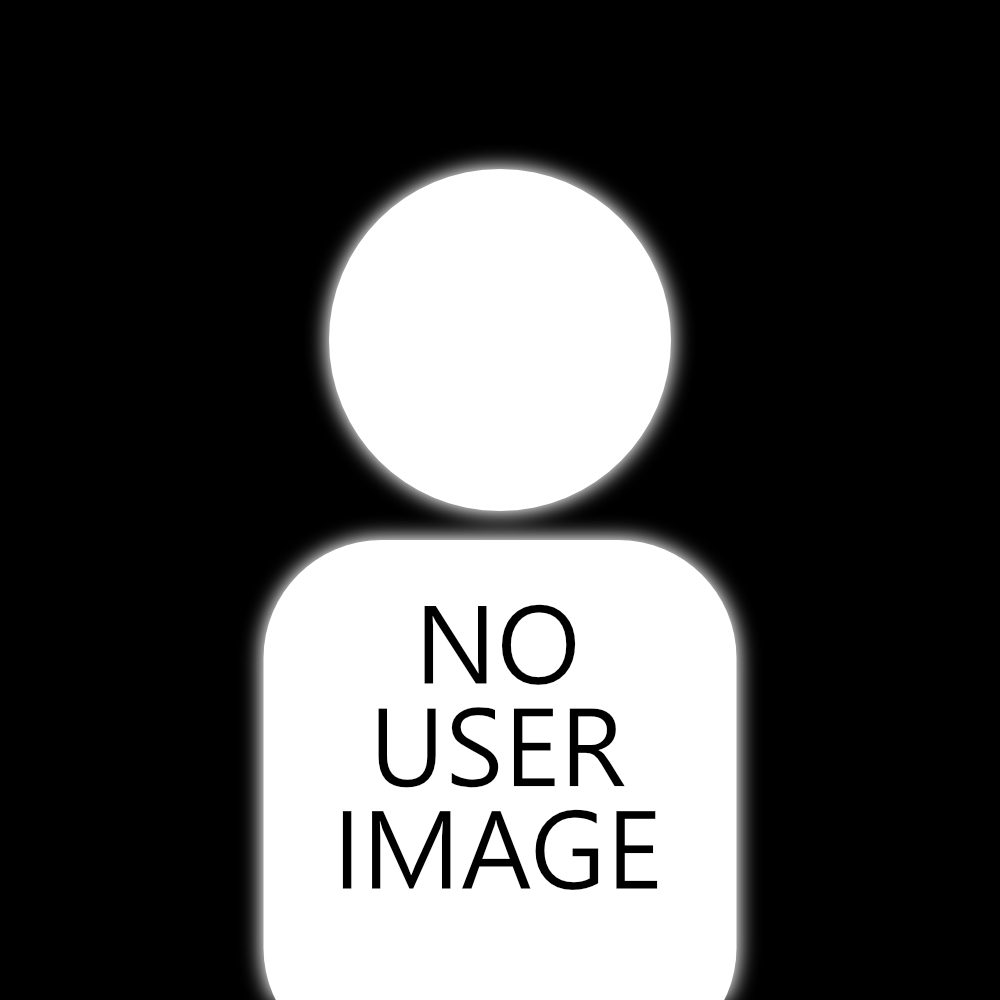
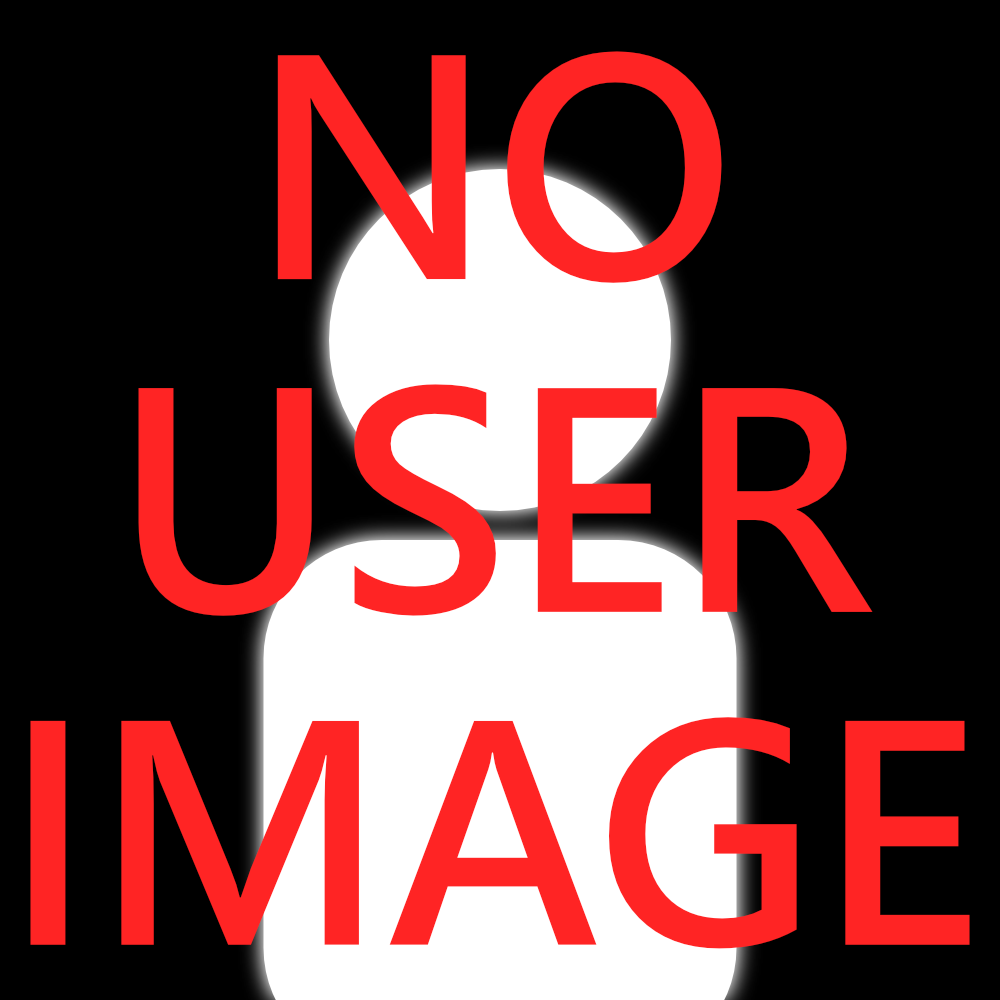
users without images works. fixed some issues editing posts with images in them.

diff --git a/templates/user.html b/templates/user.html
@@ -24,22 +24,6 @@
     }
     return;
   }
-
-  function checkUserImageExists() {
-    // Guleria A., 27/03/2021, Detect 404 error on page load [Source Code] https://stackoverflow.com/questions/26630650/detect-404-error-on-page-load
-    var baseURL = "https://storage.cloud.google.com/cc-assignment1-berke.appspot.com/users/";
-    var userID = "{{ user.key.name }}.png";
-    var url = baseURL.concat(userID);
-    console.log(url);
-    var http = new XMLHttpRequest();
-    var userImgTag = document.getElementById("userimg");
-    http.open('HEAD', url, false);
-    http.send();
-    if (http.status != 404){
-      userImgTag.src = "/static/default.png";
-    }
-  }
-
   function subjectEmptyWarning() {
         subject = document.getElementById('editsubjectinput')
         if (subject.value == "") {
@@ -54,7 +38,13 @@
     <div class="col-sm-2">
         <h3>User Details</h3>
         <ul class="list-group">
-            <li class="list-group-item"><img onload="checkUserImageExists();" id="userimg" src="https://storage.cloud.google.com/cc-assignment1-berke.appspot.com/users/{{ user.key.name }}.png" style="width: 120px;;height: 120px;"></li>
+            <li class="list-group-item">
+            {% if user['hasimage'] == true %}
+              <img id="userimg" src="https://storage.cloud.google.com/cc-assignment1-berke.appspot.com/users/{{ user.key.name }}.png" style="width: 120px;;height: 120px;">
+            {% else %}
+              <img id="userimg" src="/static/default.png" style="width: 120px;;height: 120px;">
+            {% endif %}
+            </li>
             <li class="list-group-item "><strong>User ID:</strong> {{ user.key.name }}</li>
             <li class="list-group-item"><strong>Username:</strong> {{ user['user_name'] }}</li>
         </ul>
@@ -107,7 +97,7 @@
               {% if post['hasimage'] == true %}
                 <div class="form-group" id="imageselectgroup">
                   <label for="picture">Update Post Image:</label>
-                  <input type="file" class="form-control" name="postimage" id="postimage{{ post_index }}">
+                  <input type="file" class="form-control" name="postimage" id="postimage">
                 </div>
               {% endif %}
               <input type="submit" class="btn btn-primary" value="Update">

diff --git a/templates/base.html b/templates/base.html
@@ -18,7 +18,15 @@
             <li class="nav-item"><a class="nav-link"href="{{ url_for('register') }}"><i class="fas fa-user-plus"></i> Register</a></li>
             <li class="nav-item"><a class="nav-link" href="{{ url_for('login') }}"><i class="fas fa-sign-in-alt"></i> Login</a></li>
           {% else %}
-            <a href="/user/{{ g.current_user.key.name }}"><img  src="https://storage.cloud.google.com/cc-assignment1-berke.appspot.com/users/{{ g.current_user.key.name }}.png" style="width: 40px;;height: 40px;"></a>
+            <a href="/user/{{ g.current_user.key.name }}">
+            {% if g.current_user['hasimage'] == true %}
+              <img id="userimg" src="https://storage.cloud.google.com/cc-assignment1-berke.appspot.com/users/{{ g.current_user.key.name }}.png" style="width: 40px;;height: 40px;">
+            {% else %}
+              <img id="userimg" src="/static/default.png" style="width: 40px;;height: 40px;">
+            {% endif %}
+            <!-- <img  src="https://storage.cloud.google.com/cc-assignment1-berke.appspot.com/users/{{ g.current_user.key.name }}.png" style="width: 40px;;height: 40px;"> -->
+          
+            </a>
             <li class="nav-item"><a class="nav-link" href="/user/{{ g.current_user.key.name }}" ><i class="fas fa-user"></i> {{ g.current_user['user_name']}}</a></li>
             <li class="nav-item"><a class="nav-link" href="{{ url_for('logout') }}"><i class="fas fa-sign-out-alt"></i> Logout</a></li>
           {% endif %}

diff --git a/templates/index.html b/templates/index.html
@@ -54,7 +54,12 @@
                     <div class="card text-left" style="width: 30rem;">
                         <div class="card-body">
                             <h5 class="card-title">{{ post.key.name }}</h5>
-                            <p style="font-size: 13px;"><em> <img style="width: 30px;height: 30px;" src="https://storage.cloud.google.com/cc-assignment1-berke.appspot.com/users/{{ post['userid'] }}.png" alt="{{ post['userid'] }}">
+                            <p style="font-size: 13px;"><em> 
+                                {% if post['userhasimage'] == true %}
+                                    <img style="width: 30px;height: 30px;" src="https://storage.cloud.google.com/cc-assignment1-berke.appspot.com/users/{{ post['userid'] }}.png" alt="{{ post['userid'] }}">
+                                {% else %}
+                                    <img style="width: 30px;height: 30px;" src="/static/default.png" alt="{{ post['userid'] }}">
+                                {% endif %}
                                 {{ post['user'] }} • {{ post['datetime'] }}
                             </em></p>
                             <p style="font-size: 18px;" class="card-text">{{ post['message'] }}</p>

diff --git a/main.py b/main.py
@@ -2,7 +2,6 @@ from flask import Flask, render_template, request, redirect, g
 from flask.helpers import url_for
 from google.cloud import datastore, storage
 import logging, os, datetime
-import urllib.request
 
 os.environ["GOOGLE_APPLICATION_CREDENTIALS"] = "D:\\Users\\kanar\\Google Drive\\Classes\\Cloud Computing\\Assignment 1\\Assignment 1-8cc17cf425c1.json"
 logging.basicConfig(level=logging.DEBUG)
@@ -10,7 +9,6 @@ datastore_client = datastore.Client()
 storage_client = storage.Client()
 app = Flask(__name__)
 current_user = None
-# user_image_url = ""
 
 @app.route('/', methods=['POST', 'GET'])
 def index():
@@ -69,11 +67,15 @@ def register():
         elif len(get_user_by_username(username)) != 0:
             return render_template('register.html', register_valid=False, already_exists = "username")
         else:
-            newUser = datastore.Entity(key=user_key)
-            newUser["user_name"] = username
-            newUser["password"] = password
-            upload_image("users", user_image, id)
-            datastore_client.put(newUser)
+            new_user = datastore.Entity(key=user_key)
+            new_user["user_name"] = username
+            new_user["password"] = password
+            if user_image:
+                upload_image("users", user_image, id)
+                new_user['hasimage'] = True
+            else:
+                new_user['hasimage'] = False
+            datastore_client.put(new_user)
             return redirect(url_for('login'))
     else:
         return render_template('register.html', register_valid=True)
@@ -108,8 +110,9 @@ def editpost(oldsubject):
         new_image = request.files['postimage']
         if not new_image:
             image_changed = False
+        else:
+            image_changed = True
         old_post = get_post_by_subject(oldsubject)
-        app.logger.info(old_post)
         edit_message(oldsubject, new_subject, new_message, new_image, image_changed, old_post['hasimage'])
         
     return redirect('/user/' + current_user.key.name)
@@ -148,6 +151,7 @@ def get_user_by_username(username):
     return list(username_query.fetch())
 
 def post_message(subject, message, hasimage):
+    global current_user
     with datastore_client.transaction():
         post_key = datastore_client.key("post", subject)
         post = datastore.Entity(key=post_key)
@@ -156,6 +160,7 @@ def post_message(subject, message, hasimage):
         post['message'] = message
         post['datetime'] = datetime.datetime.now().strftime("%d-%m-%Y %H:%M:%S")
         post['hasimage'] = hasimage
+        post['userhasimage'] = current_user['hasimage']
         datastore_client.put(post)
 
     return
